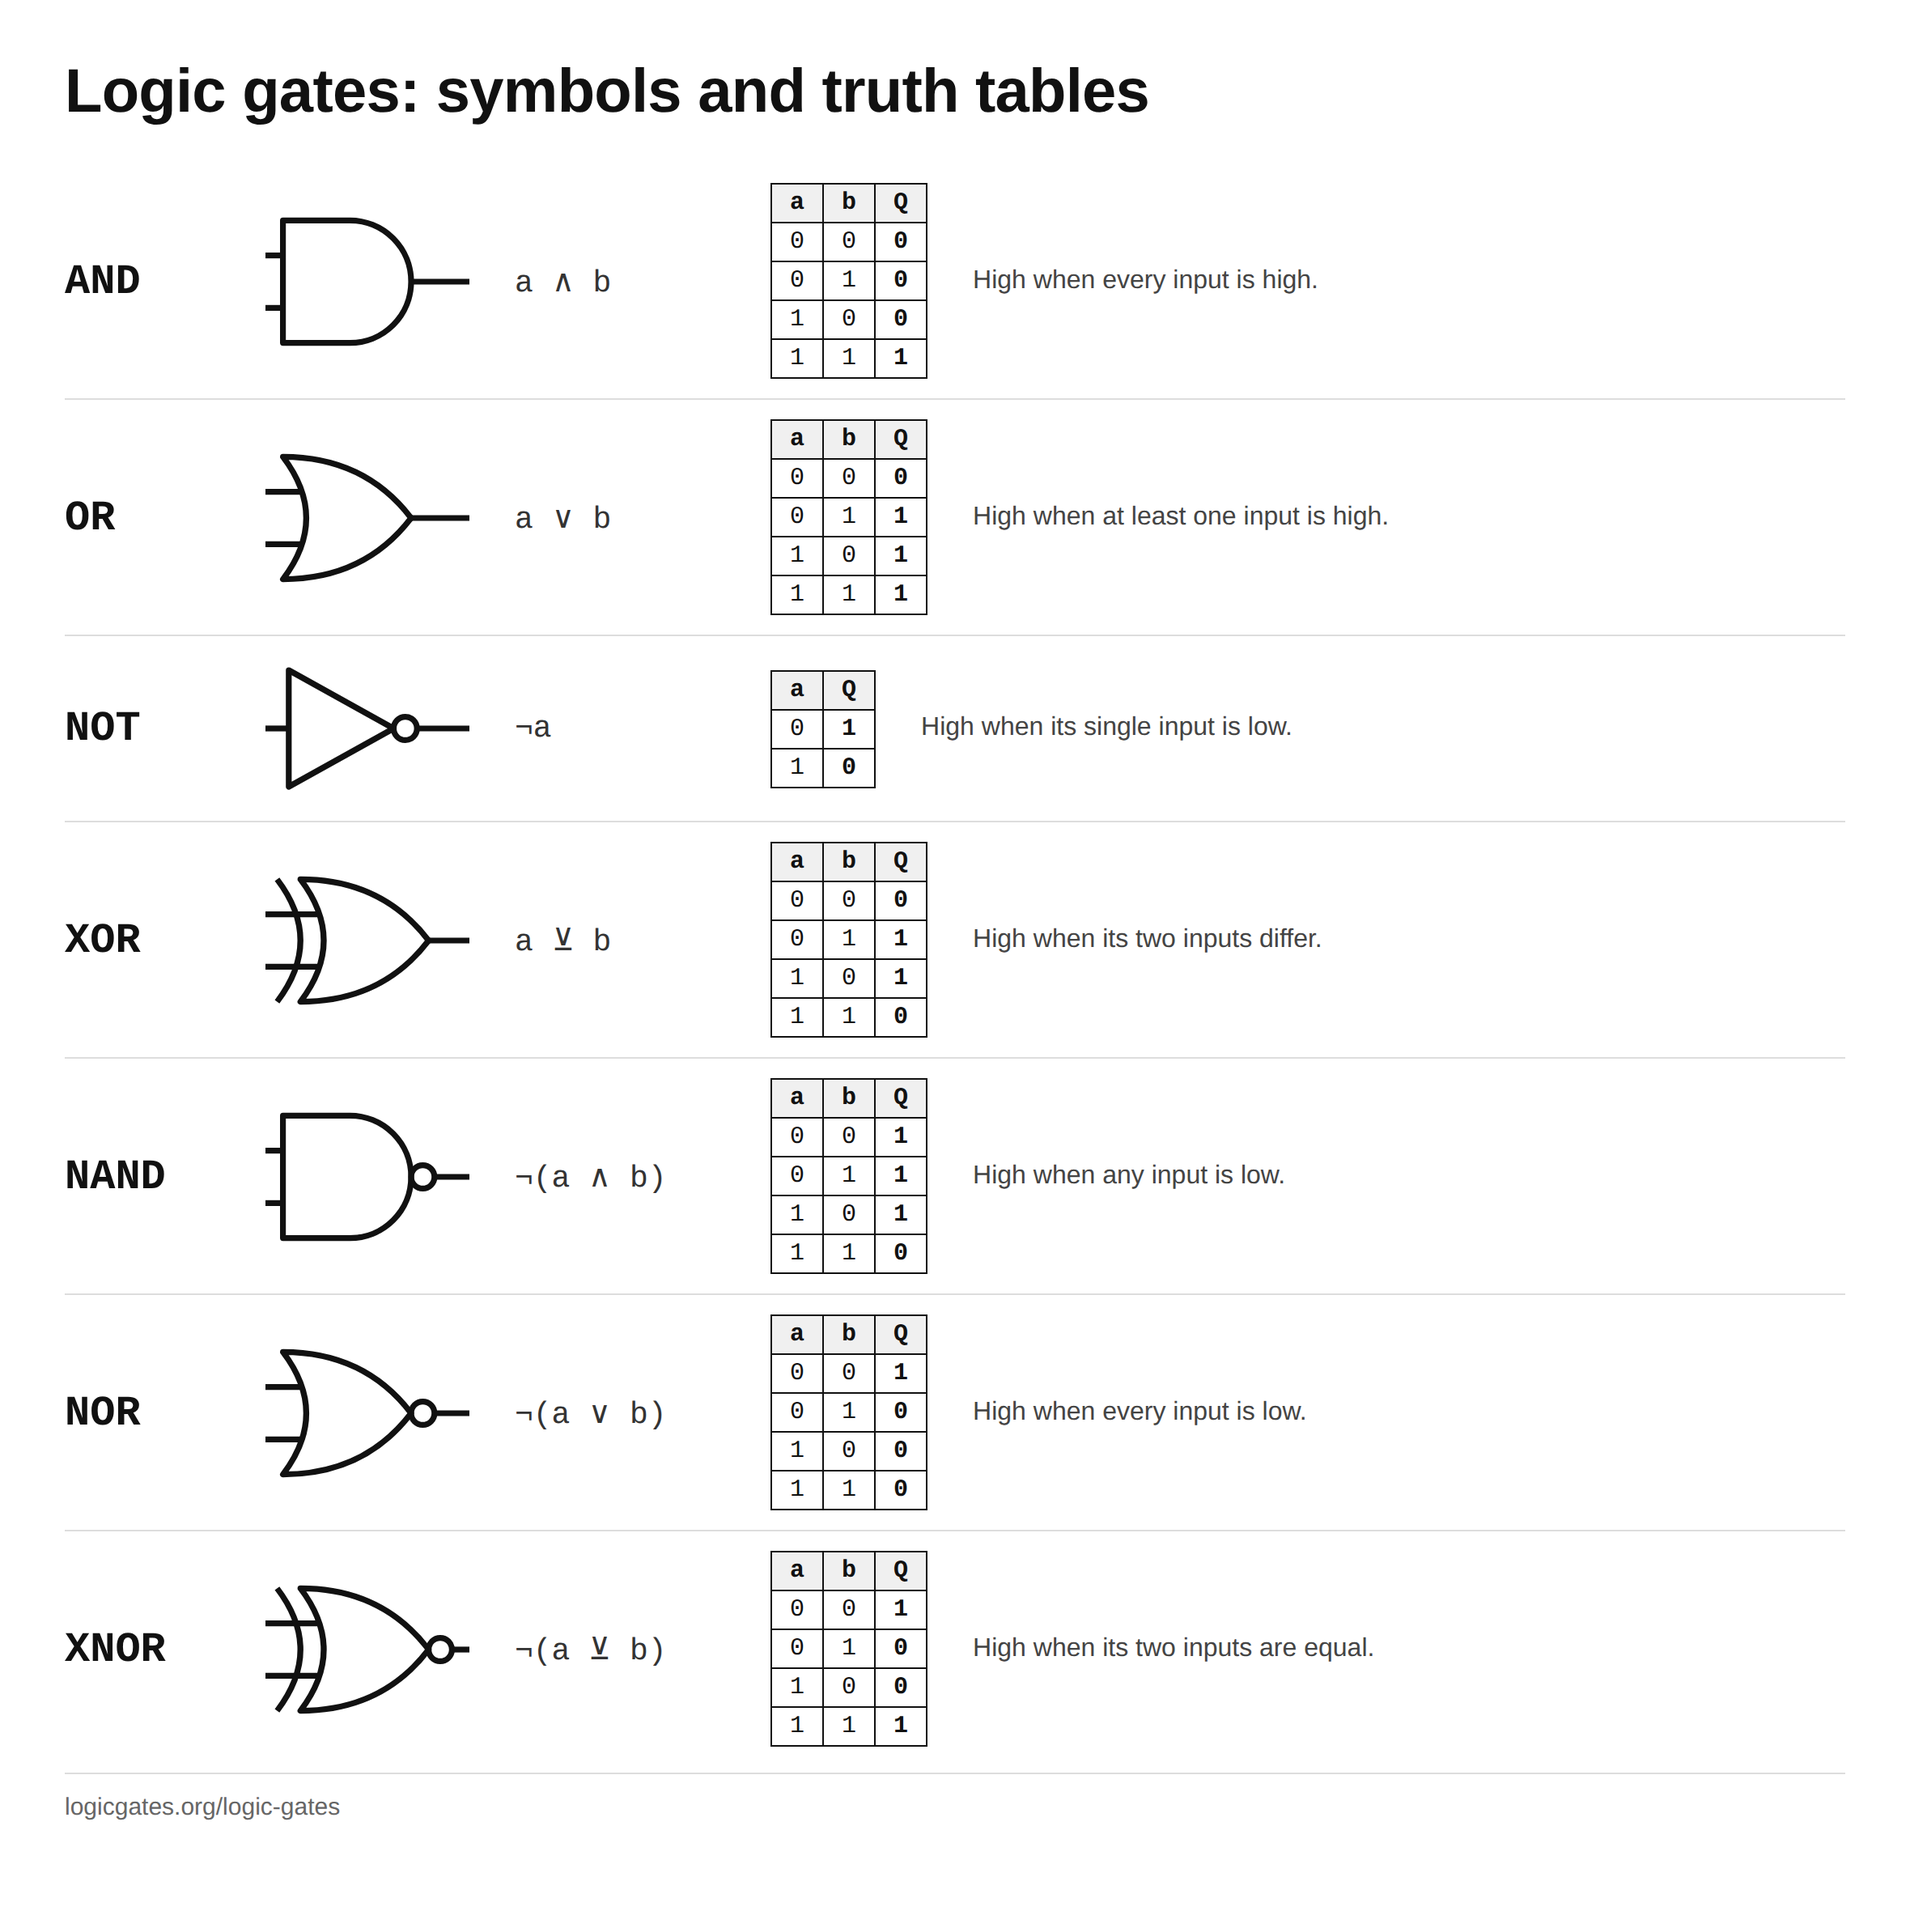
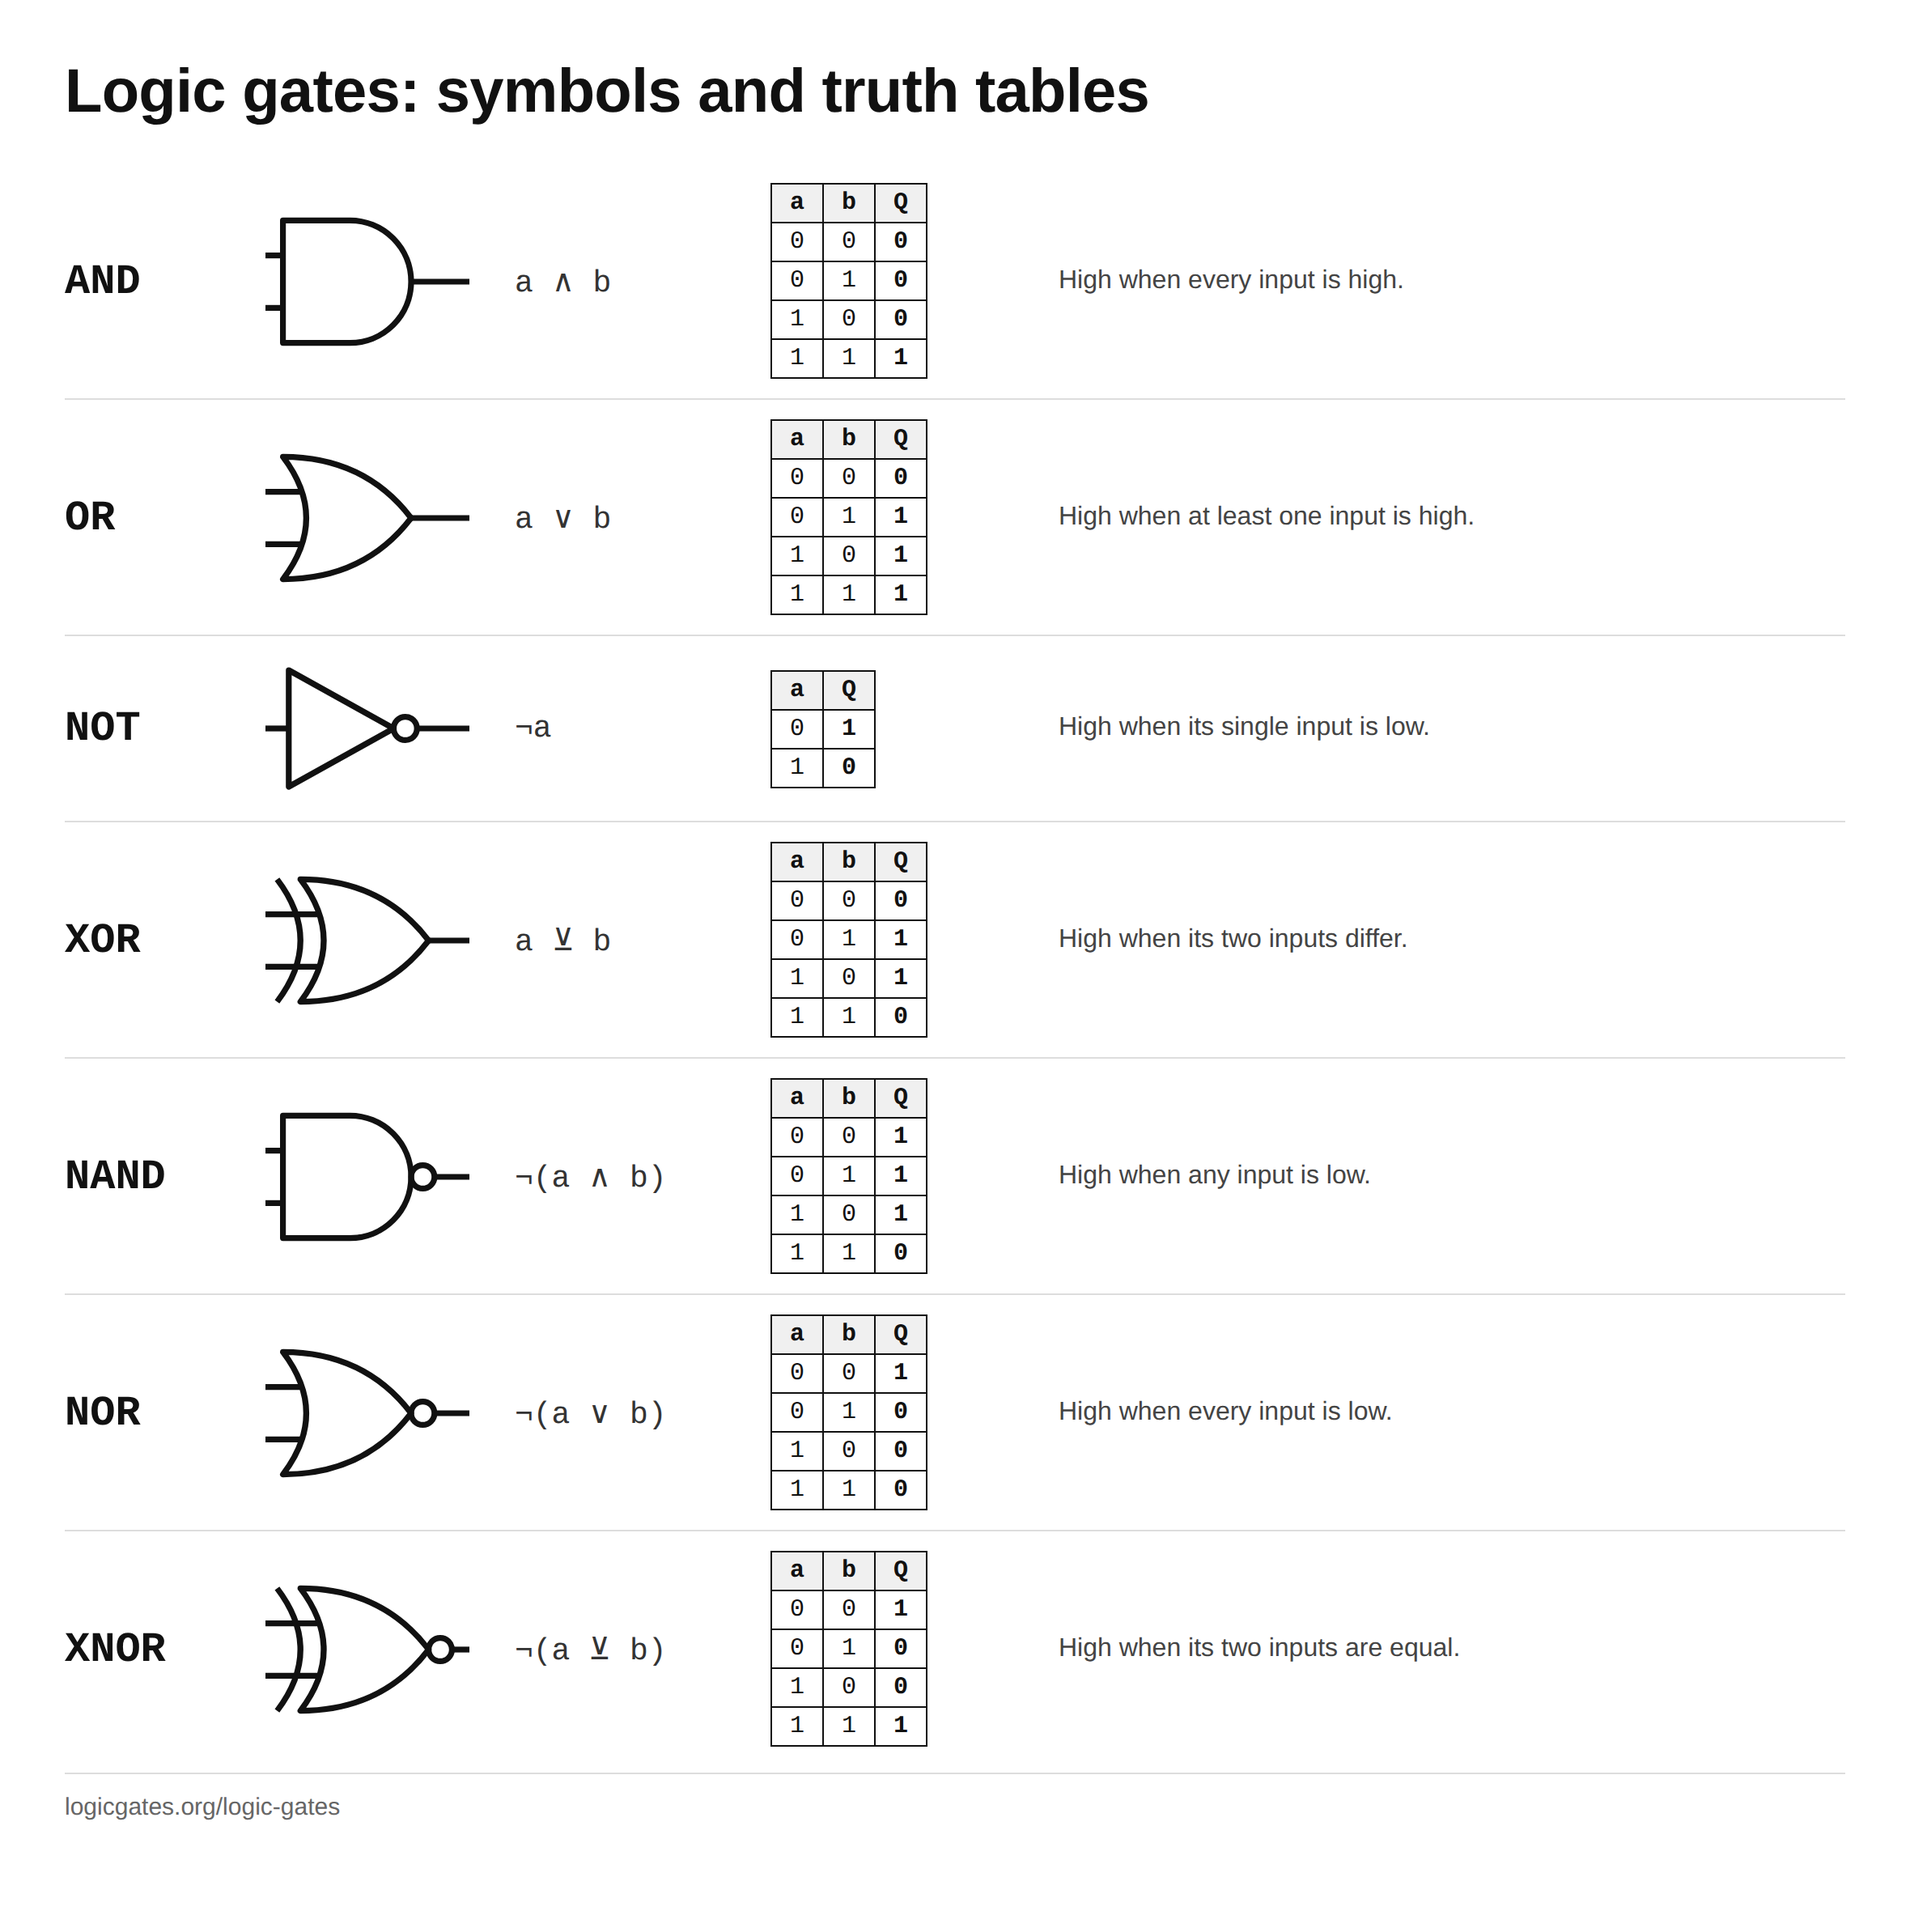
Align the descriptions on the logic gates chart
The NOT row's truth table has two columns instead of three, so its
description sat to the left of every other row's. The table now gets a
fixed-width slot in each chart row and the descriptions line up.

Claude-Session: https://claude.ai/code/session_017mEoKMBxUA1TMdYdNA78Ro

diff --git a/scripts/reference-cards.ts b/scripts/reference-cards.ts
@@ -57,6 +57,9 @@ const STYLE = `
   .row:first-of-type { border-top: none; }
   .row .name { width: 96px; font-size: 26px; font-weight: 700; font-family: ui-monospace, Menlo, monospace; }
   .row .e { width: 130px; font-family: ui-monospace, Menlo, monospace; font-size: 19px; color: #333; }
+  /* A fixed slot for the table, so the NOT row's two column table does not
+     pull its description left of every other row's. */
+  .row .tbl { width: 150px; flex: none; }
   .row table { font-size: 15px; }
   .row th, .row td { padding: 3px 11px; }
   .row .desc { font-size: 16px; color: #444; flex: 1; }
@@ -89,7 +92,7 @@ const chart = () => `<!DOCTYPE html><html><head><meta charset="utf-8"><style>${S
       <div class="name">${gate.name}</div>
       ${symbolSvg(gate.slug, 'ansi')}
       <div class="e">${gate.symbol}</div>
-      ${tableHtml(gate.slug)}
+      <div class="tbl">${tableHtml(gate.slug)}</div>
       <div class="desc">High when ${gate.outputHigh}.</div>
     </div>`
 			)
